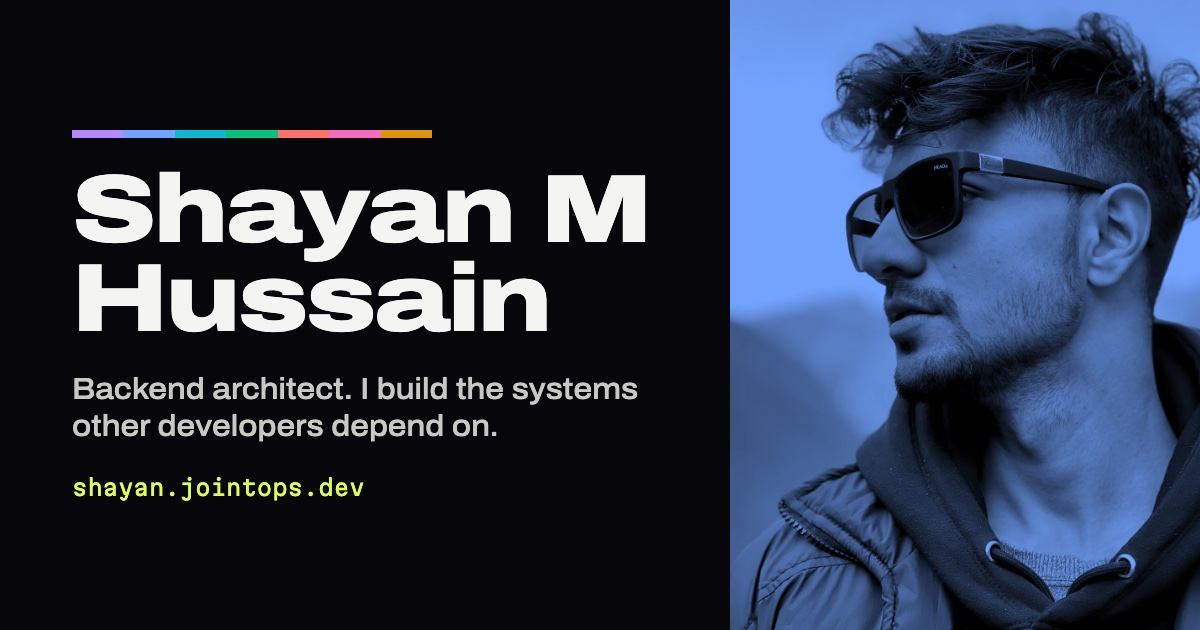
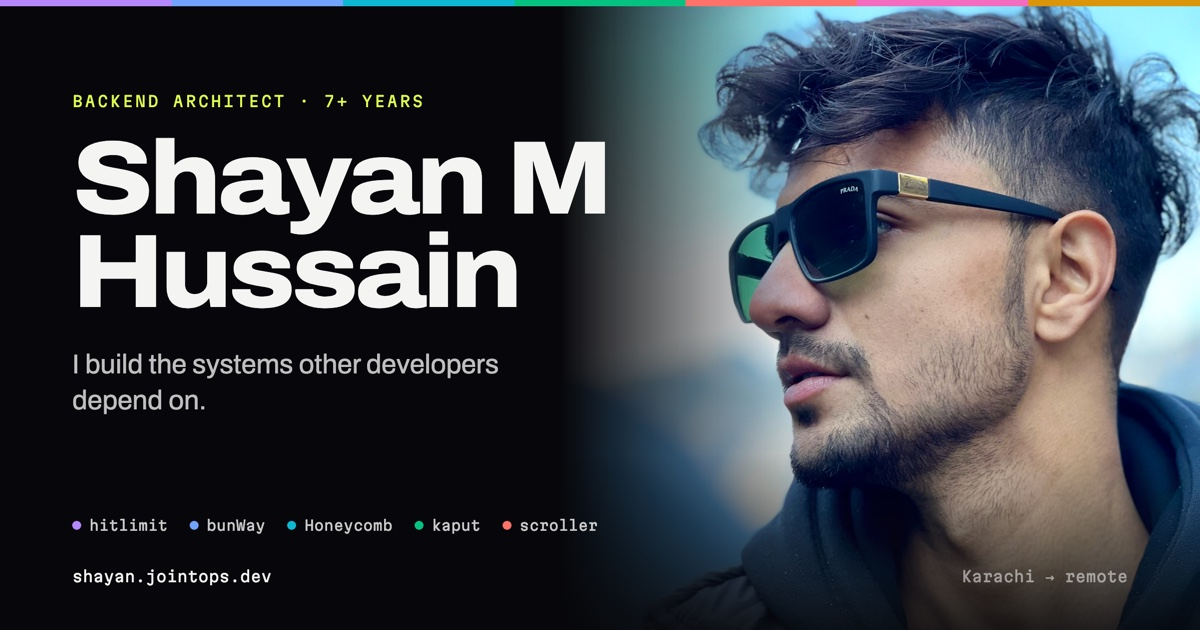
Refresh social card with full-colour portrait
Rendered from HTML in the site's Spectrum style via headless Chrome at 2x,
downscaled to 1200x630. Version query on og:image/twitter:image busts
social-site caches.

diff --git a/index.html b/index.html
@@ -22,7 +22,7 @@
     <meta property="og:url" content="https://shayan.jointops.dev/" />
     <meta property="og:title" content="Shayan M Hussain — Backend Architect" />
     <meta property="og:description" content="I build the systems other developers depend on: backend infrastructure, developer tooling and open source for Node.js and Bun." />
-    <meta property="og:image" content="https://shayan.jointops.dev/og.jpg" />
+    <meta property="og:image" content="https://shayan.jointops.dev/og.jpg?v=2" />
     <meta property="og:image:width" content="1200" />
     <meta property="og:image:height" content="630" />
     <meta property="og:image:alt" content="Shayan M Hussain, backend architect" />
@@ -32,7 +32,7 @@
     <meta name="twitter:card" content="summary_large_image" />
     <meta name="twitter:title" content="Shayan M Hussain — Backend Architect" />
     <meta name="twitter:description" content="I build the systems other developers depend on: backend infrastructure, developer tooling and open source for Node.js and Bun." />
-    <meta name="twitter:image" content="https://shayan.jointops.dev/og.jpg" />
+    <meta name="twitter:image" content="https://shayan.jointops.dev/og.jpg?v=2" />
 
     <script type="application/ld+json">
       {
